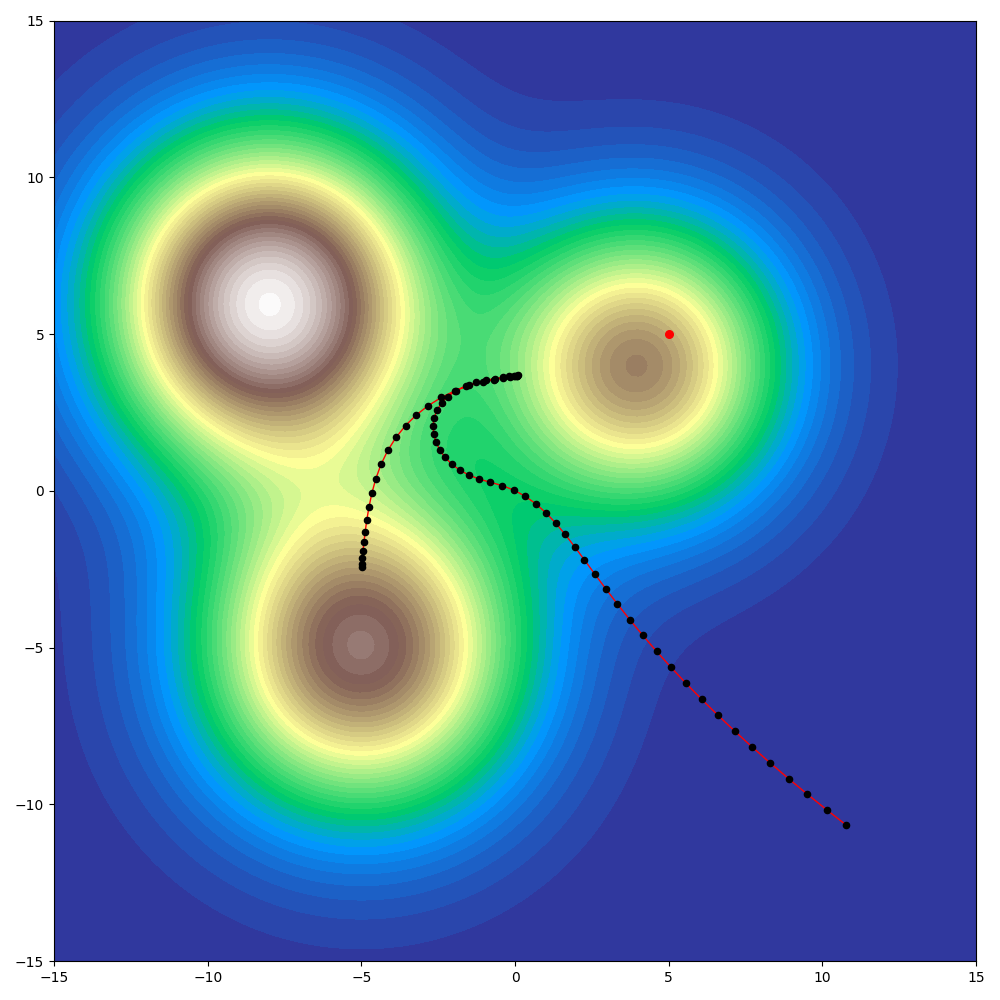
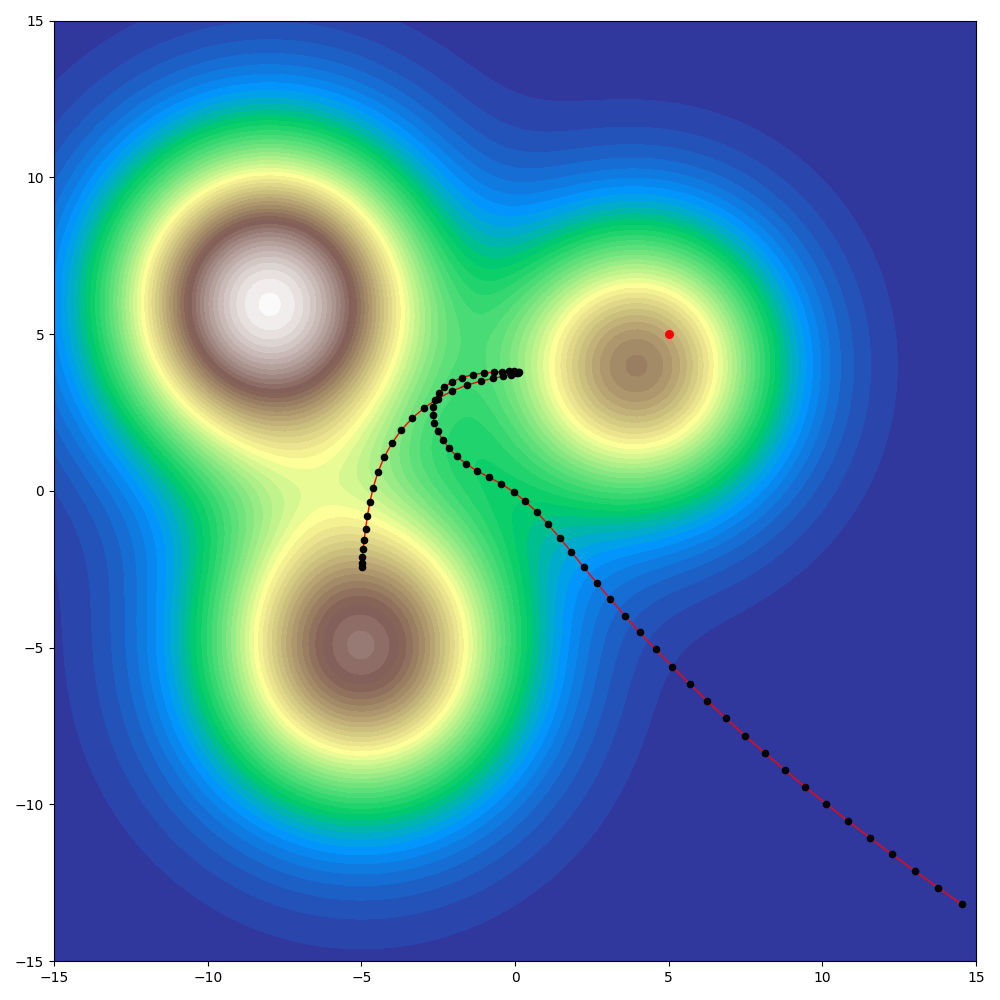
.

diff --git a/v0/Environment.py b/v0/Environment.py
@@ -26,7 +26,7 @@ class Environment:
 
     def __init__(self, start_x, start_y):
         self.beta = 0.95
-        self.gravity = 1
+        self.gravity = 1.1
         self.landscape_fn = Landscape().generate_landscape()
 
         self.x = torch.tensor(start_x, dtype=torch.float32, requires_grad=True)
@@ -68,6 +68,9 @@ class Environment:
 
         x = (self.x - self.momentum[0]).detach().requires_grad_()
         y = (self.y - self.momentum[1]).detach().requires_grad_()
+
+        if (x > 15) or (y > 15):
+            return
 
         self.steps.append([x.item(), y.item(), z.item()])
         self.x = x
